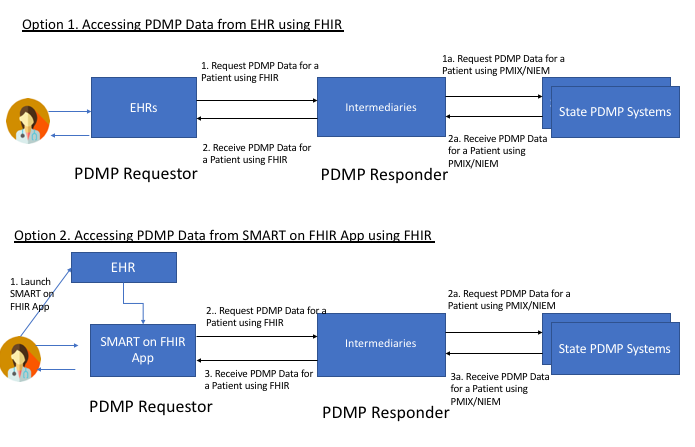
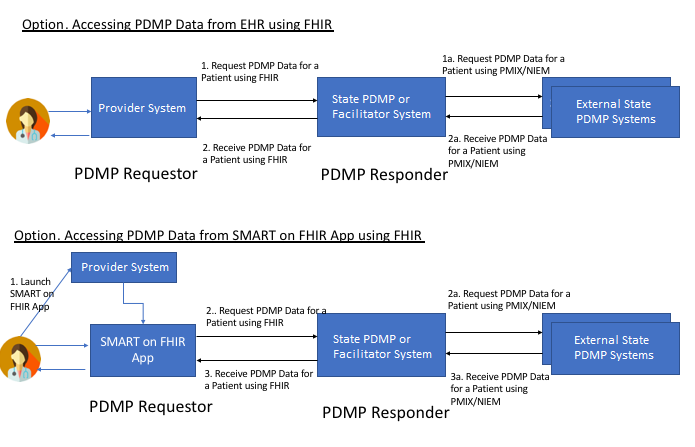
Publishing request, narrative refinement

diff --git a/input/pagecontent/use-case.md b/input/pagecontent/use-case.md
@@ -4,28 +4,30 @@ The following figure, provided by Prescription Drug Monitoring Program Training 
 
 <div>
 <figure class="figure">
-<figcaption class="figure-caption"><strong>Figure 1: An overview of the PDMP ecosystem</strong></figcaption>
+<figcaption class="figure-caption"><strong>Figure: An overview of the PDMP ecosystem</strong></figcaption>
   <p>
   <img src="pdmp-ecosystem-small.png" style="float:none">  
   </p>
 </figure>
 </div>
 
-For this Implementaion Guide, we abstract the ecosystem in Figure 1 by focusing on the PDMP Request and PDMP Report messages being exchanges by the PDMP Requester and the PDMP Responder
+For this Implementaion Guide, we abstract the ecosystem in this figure by focusing on the PDMP Request and PDMP Report messages being exchanges by the PDMP Requester and the PDMP Responder
 
-### Abstract Model, Actors and Definitions
+<p></p>
 
-This section defines the abstract model which is used to identify the specific actors and interactions that are in-scope for the project. The abstract model is as shown in Figure 2 below which consists of two actors: the PDMP Requester and the PDMP Responder.
+### Actors and Definitions
+
+The system actors that participate in this guide's interactions are the PDMP Requester and the PDMP Responder as depicted in the figure below.
 
 - **PDMP Requester:** A system (may include both a local system (e.g., EHR, Pharmacy System) and associated intermediaries (e.g., eRx switch)) that retrieves patient prescription data from a PDMP on behalf of a prescriber or pharmacist. This system can be thought of as the client in a client-server interaction.  
 
-- **PDMP Responder:** A state-based PDMP, including any intermediary or partner systems, that acts as a source of prescription data by responding to PDMP data requests. This system can be thought of as the server in a client-server interaction.
+- **PDMP Responder:** A state-based PDMP or partner system that acts as a source of PDMP data by responding to PDMP data requests. This system can be thought of as the server in a client-server interaction.
 
-**Note**: Intermediaries acting as PDMP Responders may provide additional services such as the ability to query multiple state's systems on behalf of a requesting provider. The method for accessing PDMP prescription data is the same whether a PDMP Responder is an intermediary or an actual state system.
+**Note**: Intermediaries may participate in the transmission of a PDMP request between the system of the requesting provider and the PDMP Responder that processes the request and returns a response. This guide provides both RESTful operation and messaging submission methods to match implementers' particular environments as described [here](submission-options.html).
 
 <div>
 <figure class="figure">
-<figcaption class="figure-caption"><strong>Figure 2:  Abstract Model and Actors</strong></figcaption>
+<figcaption class="figure-caption"><strong>Figure:  Abstract Model and Actors</strong></figcaption>
   <p>
   <img src="abstract-model.png" style="float:none">  
   </p>
@@ -38,7 +40,7 @@ This guide centers around a single use case, in which a provider (prescriber or 
 
 <div>
 <figure class="figure">
-<figcaption class="figure-caption"><strong>Figure 3: IG Scope</strong></figcaption>
+<figcaption class="figure-caption"><strong>Figure: IG Scope</strong></figcaption>
   <p>
   <img src="pdmp-overview-scope.png" style="float:none">  
   </p>
@@ -47,13 +49,11 @@ This guide centers around a single use case, in which a provider (prescriber or 
 
 All other interactions between the parties above--such as a prescription being sent from the prescriber to the dispensing pharmacy, or the pharmacy submitting dispense history data to the PDMP--are critical to the overall PDMP process but are not in-scope for this IG. 
 
+<p></p>
 
+### Other Data Standards Supporting the PDMP Ecosystem
 
-### Current Data Standards Supporting the PDMP Ecosystem
-
-_to be reviewed/revised_
-
-In the current ecosystem, provider and PDMP systems use a combination of NCPDP, ASAP and PMIX/NIEM standards to transmit prescriptions, supply dispense data to PDMPs and access data from other state systems, as illustrated below:
+In the current ecosystem, provider and PDMP systems use a combination of NCPDP, ASAP and PMIX/NIEM standards to exchange prescription, dispensation, and administration data supporting PDMP processes, as illustrated below:
 
 <div>
 <figure class="figure">
@@ -78,24 +78,25 @@ Providers may also currently use web portals to access PDMP data, as shown in th
 </div>
 
 In this case, the provider has to interact with a separate web portal not integrated with the EHR to access the  data. These web portals typically have custom integrations with the associated state PDMP systems. 
+
 <p></p>
 
 ### Provider Data Access Using FHIR
 
-_to be reviewed/revised_
+As discussed above, the current mechanisms to access data vary between the usage of multiple data transmission formats or proprietary mechanisms such as web portals. The  ecosystem can benefit from the use of FHIR standards for accessing  data in the following ways:
 
-As discussed above, the current mechanisms to access data vary between the usage of multiple data transmission formats or proprietary mechanisms such as web portals. The  ecossystem can benefit from the use of FHIR standards for accessing  data in the following ways:
-
-* Ability to easily integrate PDMP web application access into EHR work flows using SMART on FHIR Apps
-* Ability to integrate discrete PDMP data results using FHIR messaging
+* Ability to integrate discrete PDMP data results using the `get-pdmdp-history` operation directly or submitting the request using FHIR messaging
+* Ability to integrate PDMP web application access into EHR work flows using SMART on FHIR Apps
+* Ability to initiate a PDMP history request as a decision support step in an appropriate EHR workflow using CDS Hooks
 * Ability to enhance security mechanisms outlined by FHIR and SMART on FHIR between the  actors
-* Ability to leverage the  FHIR APIs to build decision support services using CDS Hooks in the EHR work flows
 
-Figure 5a, 5b and 5c below shows the different options for using FHIR APIs to access  data in the EHR work flows.
+<p></p>
+
+The figures below shows the different options for using FHIR APIs to access  data in the EHR work flows.
 
 <div>
 <figure class="figure">
-<figcaption class="figure-caption"><strong>Figure 5a: Options to leverage FHIR APIs with intermediaries and PMIX/NIEM to access  data</strong></figcaption>
+<figcaption class="figure-caption"><strong>Figure: Options to leverage FHIR APIs with intermediaries and PMIX/NIEM to access  data</strong></figcaption>
   <p>
   <img src="pdmp-data-access-fhir-1.png" style="float:none">  
   </p>
@@ -104,7 +105,7 @@ Figure 5a, 5b and 5c below shows the different options for using FHIR APIs to ac
 
 <div>
 <figure class="figure">
-<figcaption class="figure-caption"><strong>Figure 5b: Options to leverage only FHIR APIs with intermediaries to access  data</strong></figcaption>
+<figcaption class="figure-caption"><strong>Figure: Options to leverage only FHIR APIs with intermediaries to access  data</strong></figcaption>
   <p>
   <img src="pdmp-data-access-fhir-2.png" style="float:none">  
   </p>
@@ -113,51 +114,33 @@ Figure 5a, 5b and 5c below shows the different options for using FHIR APIs to ac
 
 <div>
 <figure class="figure">
-<figcaption class="figure-caption"><strong>Figure 5c: Options to leverage only FHIR APIs to access  data without intermediaries</strong></figcaption>
+<figcaption class="figure-caption"><strong>Figure: Options to leverage only FHIR APIs to access  data without intermediaries</strong></figcaption>
   <p>
   <img src="pdmp-data-access-fhir-3.png" style="float:none">  
   </p>
 </figure>
 </div>
 
+<p></p>
 
-#### FHIR resources used
+#### FHIR Resources Used to Convey a Patient's PDMP History
 
-_to be reviewed/revised_
+The following FHIR resources are used in the request for a patient's PDMP history and to convey the resulting medication dispense and administration data.
 
-In order to use FHIR to access PDMP data, the following FHIR resources are used:
-
+* Alert: Used to communicate clinical alerts or other additional information in the PDMP response.
 * MedicationDispense: Used to communicate dispense information.
 * MedicationAdministration: Used to communicate administration information.
+* Message Header: Used to communicate information supporting the request and response interactions (in the FHIR messaging option only)
 * Organization: Used to communicate information about the requester, dispenser and administering party organization.
-* Practitioner and PractitionerRole: Used to communicate information about the requesting provider and the prescriber of a dispensed or administered product.
+* Parameters: Used to enumerate input and output information in the `get-pdmp-history` operation.
 * Patient: Used to communicate information about the patient.
-* Message Header: Used to communicate information supporting the request and response interactions.
-* Parameters: Used to enumerate input information in the PDMP request message.
+* Practitioner and PractitionerRole: Used to communicate information about the requesting provider, the prescriber of a dispensed or administered product, or the provider that administered a medication.
 
-
-### Data integration using FHIR messaging
-
-_to be reviewed/revised_
-
-The FHIR standard provides a messaging capability that supports important aspects of PDMP data retrieval, including:
-
-- Submission of requester information including authorized provider and delegate details and facility information
-- Support for a "pre-fetch" request processing option which instructs the PDMP Responder to tee up results to be returned in response to a subsequent request from the PDMP Requester
-
-The [Message Processing](message-processing.html) page details PDMP message submission and response processing.
-
-
-### Integrating a PDMP web interface into the requester's system using SMART App Launch
-
-_to be added_
-
+<p></p>
 
 ### Patient Matching Considerations
 
-_to be reviewed/revised_
-
-The PDMP FHIR IG does not add any patient matching requirements to the  actors, but relies on existing practices used for patient matching based on the first name, last name and date of birth provided through the request. Some states may require requesters to include additional parameters to facilitate more accurate patient matching results, however these variations are out of scope for this IG.
+The PDMP FHIR IG does not add any patient matching requirements to the  actors, but relies on existing practices of PDMP Responders used for patient matching based on the first name, last name, date of birth, identifiers or and/or other elements provided through the request. States may require requesters to include certain patient information to facilitate patient matching; however, these requirements are out of scope of this IG.
 
 
 <br>

diff --git a/input/pagecontent/submission-options.md b/input/pagecontent/submission-options.md
@@ -1,11 +1,21 @@
-The operation requesting patient PDMP history may also be invoked using FHIR messaging in environments where... 
+### PDMP `get-pdmp-history` operation
 
-- the PDMP Responder only accepts requests via an intermediary
-- or the participants would otherwise benefit from messaging features such as inclusion of a MessageHeader to convey information for routing, logging or other purposes. 
+The PDMP request and response are accomplished using a FHIR Operation ([get-pdmp-history](OperationDefinition-get-pdmp-history.html)) which is invoked at the PDMP Responder. Use of an operation enables features needed to support current PDMP processing requirements including:
 
-This page overviews the messaging workflow, message content and related considerations. See [the FHIR standard's messaging page](http://hl7.org/fhir/messaging.html) for additional details on FHIR messaging conventions.
+- submission of requester information including authorized provider and delegate details and facility information
+- support for a "pre-fetch" request processing option which instructs the PDMP Responder to tee up results to be returned in response to a subsequent request from the PDMP Requester
 
-### Message overview
+The operation can be called in two ways:
+- directly using a RESTful POST to the PDMP Responder's `[base]/Patient/$get-pdmp-history` endpoint
+- using FHIR messaging, by submitting the operation's request parameters within a bundle that also includes a MessageHeader that references the `get-pdmp-history` operation definition
+
+See the [get-pdmp-history OperationDefinition](OperationDefinition-get-pdmp-history.html) for full operation details.
+
+See [the messaging section below](submission-options.html#message-submission-overview) for details on calling the `get-pdmp-history` operation using FHIR messaging.
+
+<p></p>
+
+#### Message submission overview
 <div>
 <figure class="figure">
 <figcaption class="figure-caption"><strong>Figure: High-level PDMP Message Flow</strong></figcaption>
@@ -17,7 +27,7 @@ This page overviews the messaging workflow, message content and related consider
 
 <p></p>
 
-### Request message content
+#### Request message content
 
 The PDMP Request message includes a MessageHeader and a Parameters resource containing the information needed to retrieve a single individual's information--including medication dispenses, administrations and related information--from a PDMP Responder. 
 
@@ -26,7 +36,7 @@ Specification details and examples are at [PDMP Bundle - Request Message](Struct
 Note that the MessageHeader.event of the request references the same [get-pdmp-history operation](OperationDefinition-get-pdmp-history.html) that can be invoked directly using a RESTful POST to in non-messaging environments.
 <p></p>
 
-### Response message content
+#### Response message content
 
 The PDMP Response message contains a MessageHeader and a Parameters resource containing a Bundle holding:
 - medication dispenses, administrations and related details if the PDMP Responder is able to locate information for the requested patient
@@ -41,16 +51,17 @@ Details and examples are at [PDMP Bundle - Response Message](StructureDefinition
 
 <p></p>
 
-### Message submission
+#### Message submission
 Invoking the `get-pdmp-history` operation via FHIR messaging is accomplished following the guidance provided in the [Invoking Operations via Messages](http://hl7.org/fhir/messaging.html#operations) section of the FHIR specification.
 
-#### MessageHeader population
+**MessageHeader population**
 
 The MessageHeader.event of the request message references the [`get-pdmp-history` operation](OperationDefinition-get-pdmp-history.html). Specifically:
 - MessageHeader.eventCoding.system = `"urn:ietf:rfc:3986"`
 - MessageHeader.eventCoding.code = `"http://hl7.org/fhir/us/pdmp/OperationDefinition/get-pdmp-history"`
 
-#### Submission endpoint and parameters
+**Submission endpoint and parameters**
+
 The request message is POSTed to the PDMP Responder using the standard FHIR $process-message operation...
   - URL: `[base]/$process-message`
   - Details from the base FHIR specification are [here](https://www.hl7.org/fhir/operation-messageheader-process-message.html).
@@ -130,6 +141,19 @@ TO BE ADDED: [Example]()
 ### Security considerations for messaging
 
 See the [Security](security.html) section for security and privacy guidance.
+
+### Integrating a PDMP web interface into the requester's system using SMART App Launch
+
+_to be added_
+
+
+
+The operation requesting patient PDMP history may also be invoked using FHIR messaging in environments where... 
+
+- the PDMP Responder only accepts requests via an intermediary
+- or the participants would otherwise benefit from messaging features such as inclusion of a MessageHeader to convey information for routing, logging or other purposes. 
+
+This page overviews the messaging workflow, message content and related considerations. See [the FHIR standard's messaging page](http://hl7.org/fhir/messaging.html) for additional details on FHIR messaging conventions.
 
 
 <br>

diff --git a/input/pagecontent/index.md b/input/pagecontent/index.md
@@ -1,8 +1,8 @@
 ### Introduction
 
-Prescription Drug Monitoring Programs (PDMPs) are state-based databases that provide prescribers, pharmacists, and health authorities timely information about controlled substance, and in some states non-controlled substance prescribing and patient behaviors. Use of medication information stored in PDMPs during care delivery helps avoid drug misuse, abuse and diversion and can provide improved patient care and safety.
+Prescription Drug Monitoring Programs (PDMPs) are state-based databases that provide prescribers, pharmacists, and health authorities timely information about controlled substance, and in some states non-controlled substance dispensing, administration and patient behaviors. Use of information stored in PDMPs during care delivery helps avoid drug misuse and diversion and can provide improved patient care and safety.
 
-To reduce opioid abuse and for other purposes, states have implemented policies mandating providers to reference PDMPs to obtain patients' medication history before prescribing or dispensing certain medications. The Prescription Drug Monitoring Program (PDMP) FHIR Implementation Guide defines a method for providers to access patient patient PDMP information using the HL7 FHIR standard. 
+To reduce opioid misuse and for other purposes, states have implemented policies mandating providers to reference PDMPs to obtain patients' history before prescribing or dispensing certain medications. The Prescription Drug Monitoring Program (PDMP) FHIR Implementation Guide defines a method for providers to access patient PDMP information using the HL7 FHIR standard. 
 
 For general background on state PDMP programs, see the Centers for Disease Control and Prevention [PDMP - What States Need to Know](https://www.cdc.gov/drugoverdose/pdmp/index.html).
 
@@ -35,7 +35,7 @@ The following system actors participate in the data exchange flows described in 
 The guide is organized into the following sections:
 
 - [Use Case Details](use-case.html) defines the PDMP use case, participants and guidance.
-- [Message Processing](message-processing.html) details PDMP message submission and response processing.
+- [Submission Options](submission-options.html) details PDMP request submission and response processing.
 - [Security](security.html) provides information for implementers related to security and privacy.
 - [Deployment Architecture](deployment.html) provides guidance on system deployment options.
 - [Conformance Expectations](conformance.html) defines use of Must Support elements and also describes conventions for situations where information is not available.

diff --git a/input/pagecontent/search.md b/input/pagecontent/search.md
@@ -1,6 +1,6 @@
 ### FHIR Search API
 
-_to be reviewed/revised_
+_This page was removed from the implementation guide, as this request method doesn't enable the submission of input information that stakeholders deemed necessary, such as authorized provider information_
 
 The FHIR standard provides a set of [search mechanisms](http://hl7.org/fhir/search.html) by which specific FHIR resources can be accessed from a FHIR server. Typically the search parameters are specified in the RESTful URL and accessed using the HTTP GET operation. Searches may also be performed using HTTP POST, with parameters specified in the operation body.
 

diff --git a/input/pagecontent/changes.md b/input/pagecontent/changes.md
@@ -1,0 +1,6 @@
+### STU 1
+
+This is the initial, ballot version of the US Prescription Drug Monitoring Program (PDMP) FHIR Implementation Guide.
+
+This IG consists primarily of new content that is being balloted for the first time. However, it includes some content from a previous work that was balloted but not published, the US Meds FHIR IG, which has been updated and incorporated here.
+
